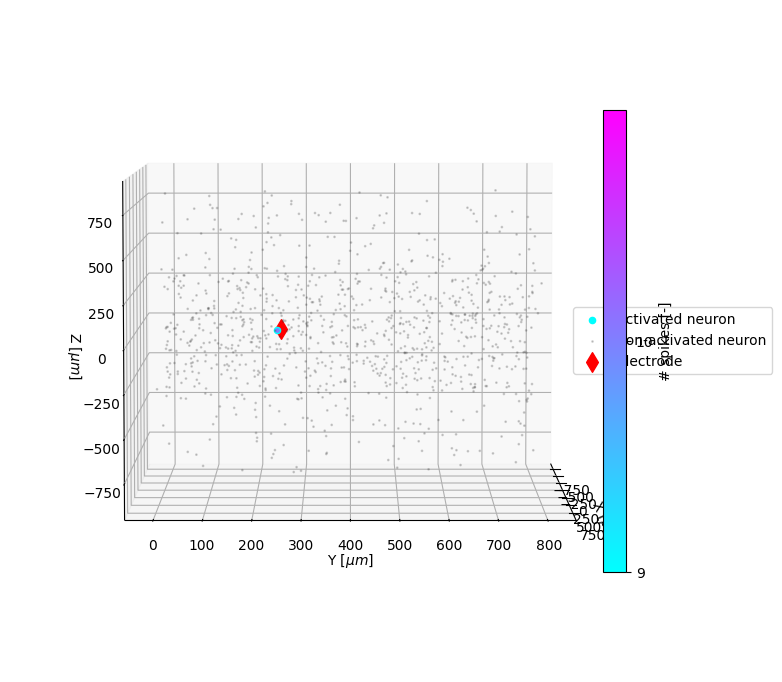
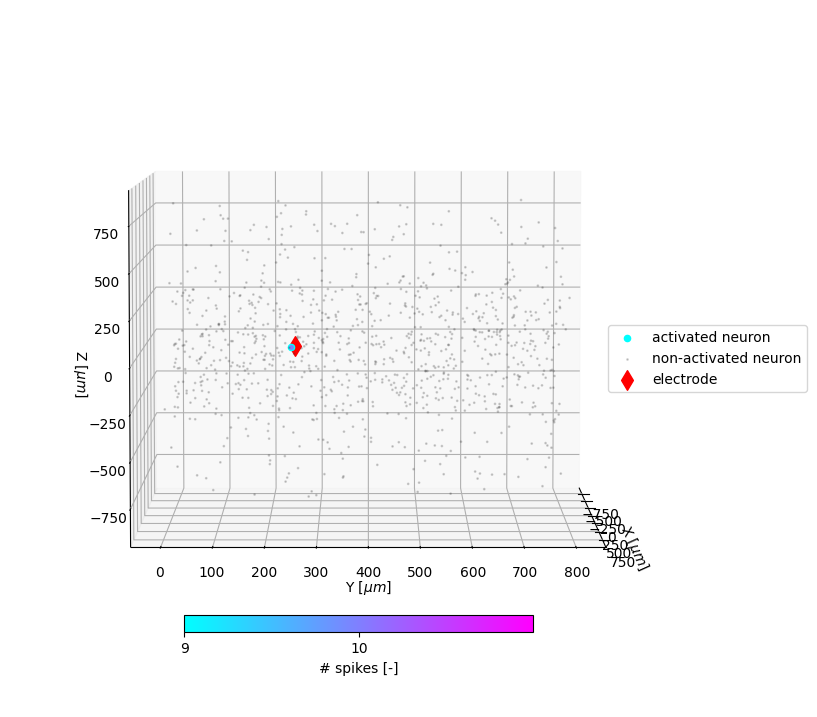
Plotting

diff --git a/examples/bio_components/plot.py b/examples/bio_components/plot.py
@@ -29,6 +29,8 @@ def plot_activity_3d(nodes_dir, electrodes_dir, spikes_dir, save_dir=None, squar
 
     p = ax.scatter(active[:,0], active[:,1], active[:,2], marker='o', s=20, cmap='cool', c=n_spikes[n_spikes!=0], label='activated neuron')
     ax.scatter(inactive[:,0], inactive[:,1], inactive[:,2], marker='o', s=1, c='0.2', alpha=0.2, label='non-activated neuron')
+    cbar = plt.colorbar(p, label='# spikes [-]', shrink=0.5, pad=-0.1, anchor=(0.5, 1.0), panchor=(0.5, 0.0), orientation='horizontal')
+    cbar.set_ticks(range(1,int(max(n_spikes))+1))
     if electrodes_dir is not None:
         elec_pos = pd.read_csv(electrodes_dir, sep=' ')
         elec_pos = elec_pos[['pos_x', 'pos_y', 'pos_z']].to_numpy()[0]
@@ -53,11 +55,8 @@ def plot_activity_3d(nodes_dir, electrodes_dir, spikes_dir, save_dir=None, squar
         for xb, yb, zb in zip(Xb, Yb, Zb):
             ax.plot([xb], [yb], [zb], 'w')
 
-    cbar = plt.colorbar(p, label='# spikes [-]', shrink=0.5, pad=-0.1)
-    cbar.set_ticks(range(1,int(max(n_spikes))+1))
     if save_dir is not None:
         plt.savefig(save_dir, bbox_inches='tight', transparent=True)
-    print(n_spikes[n_spikes!=0])
     plt.show()
 
 
